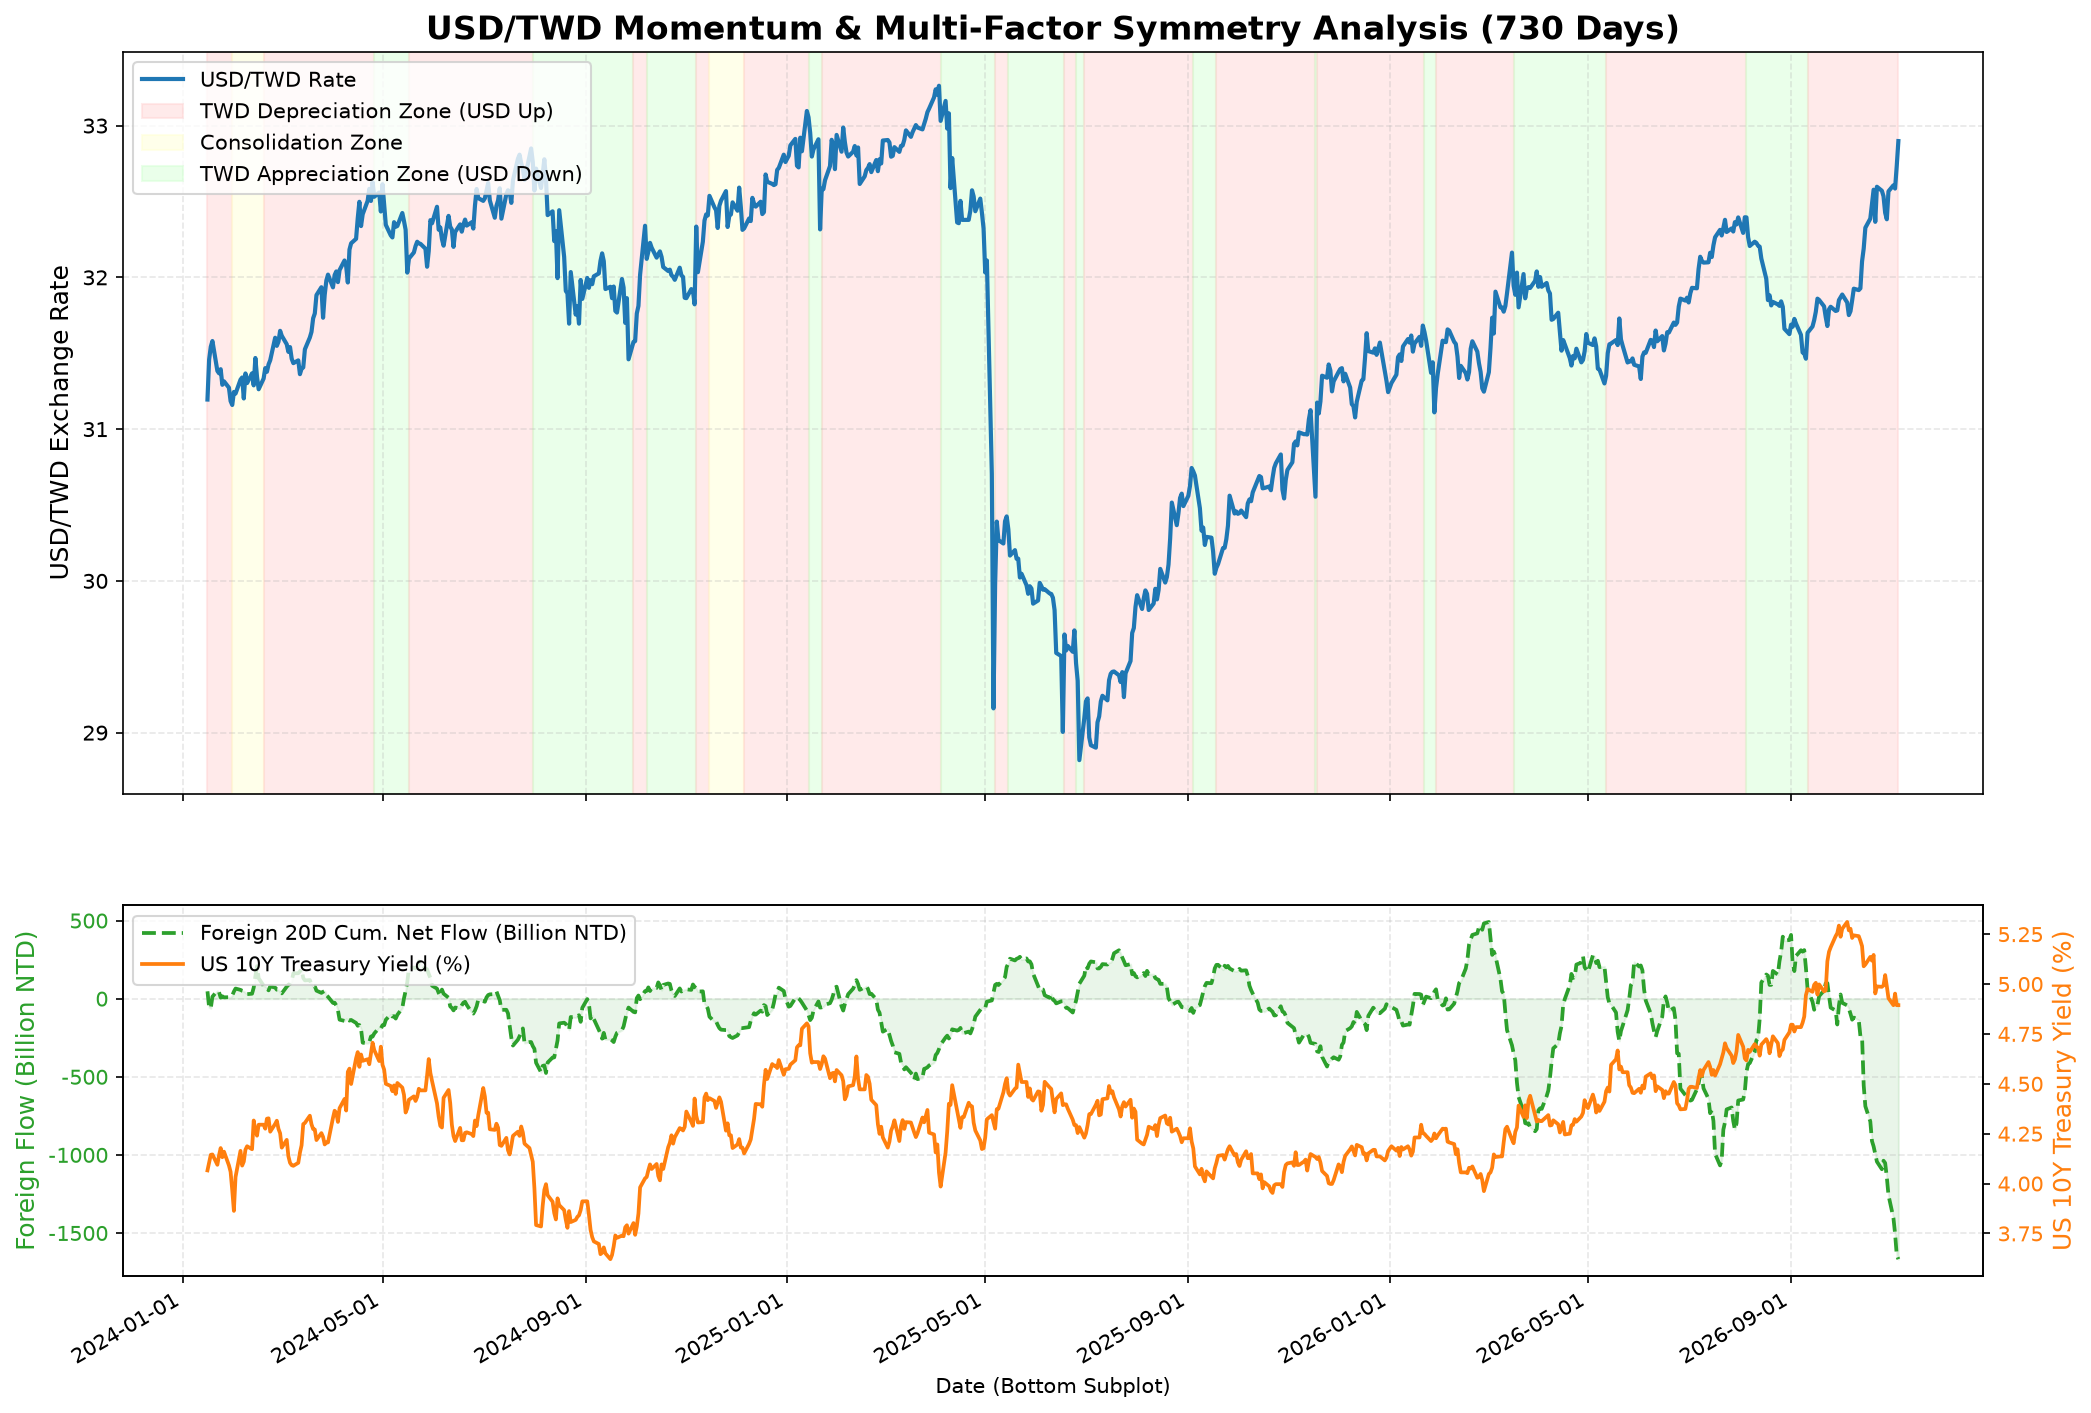
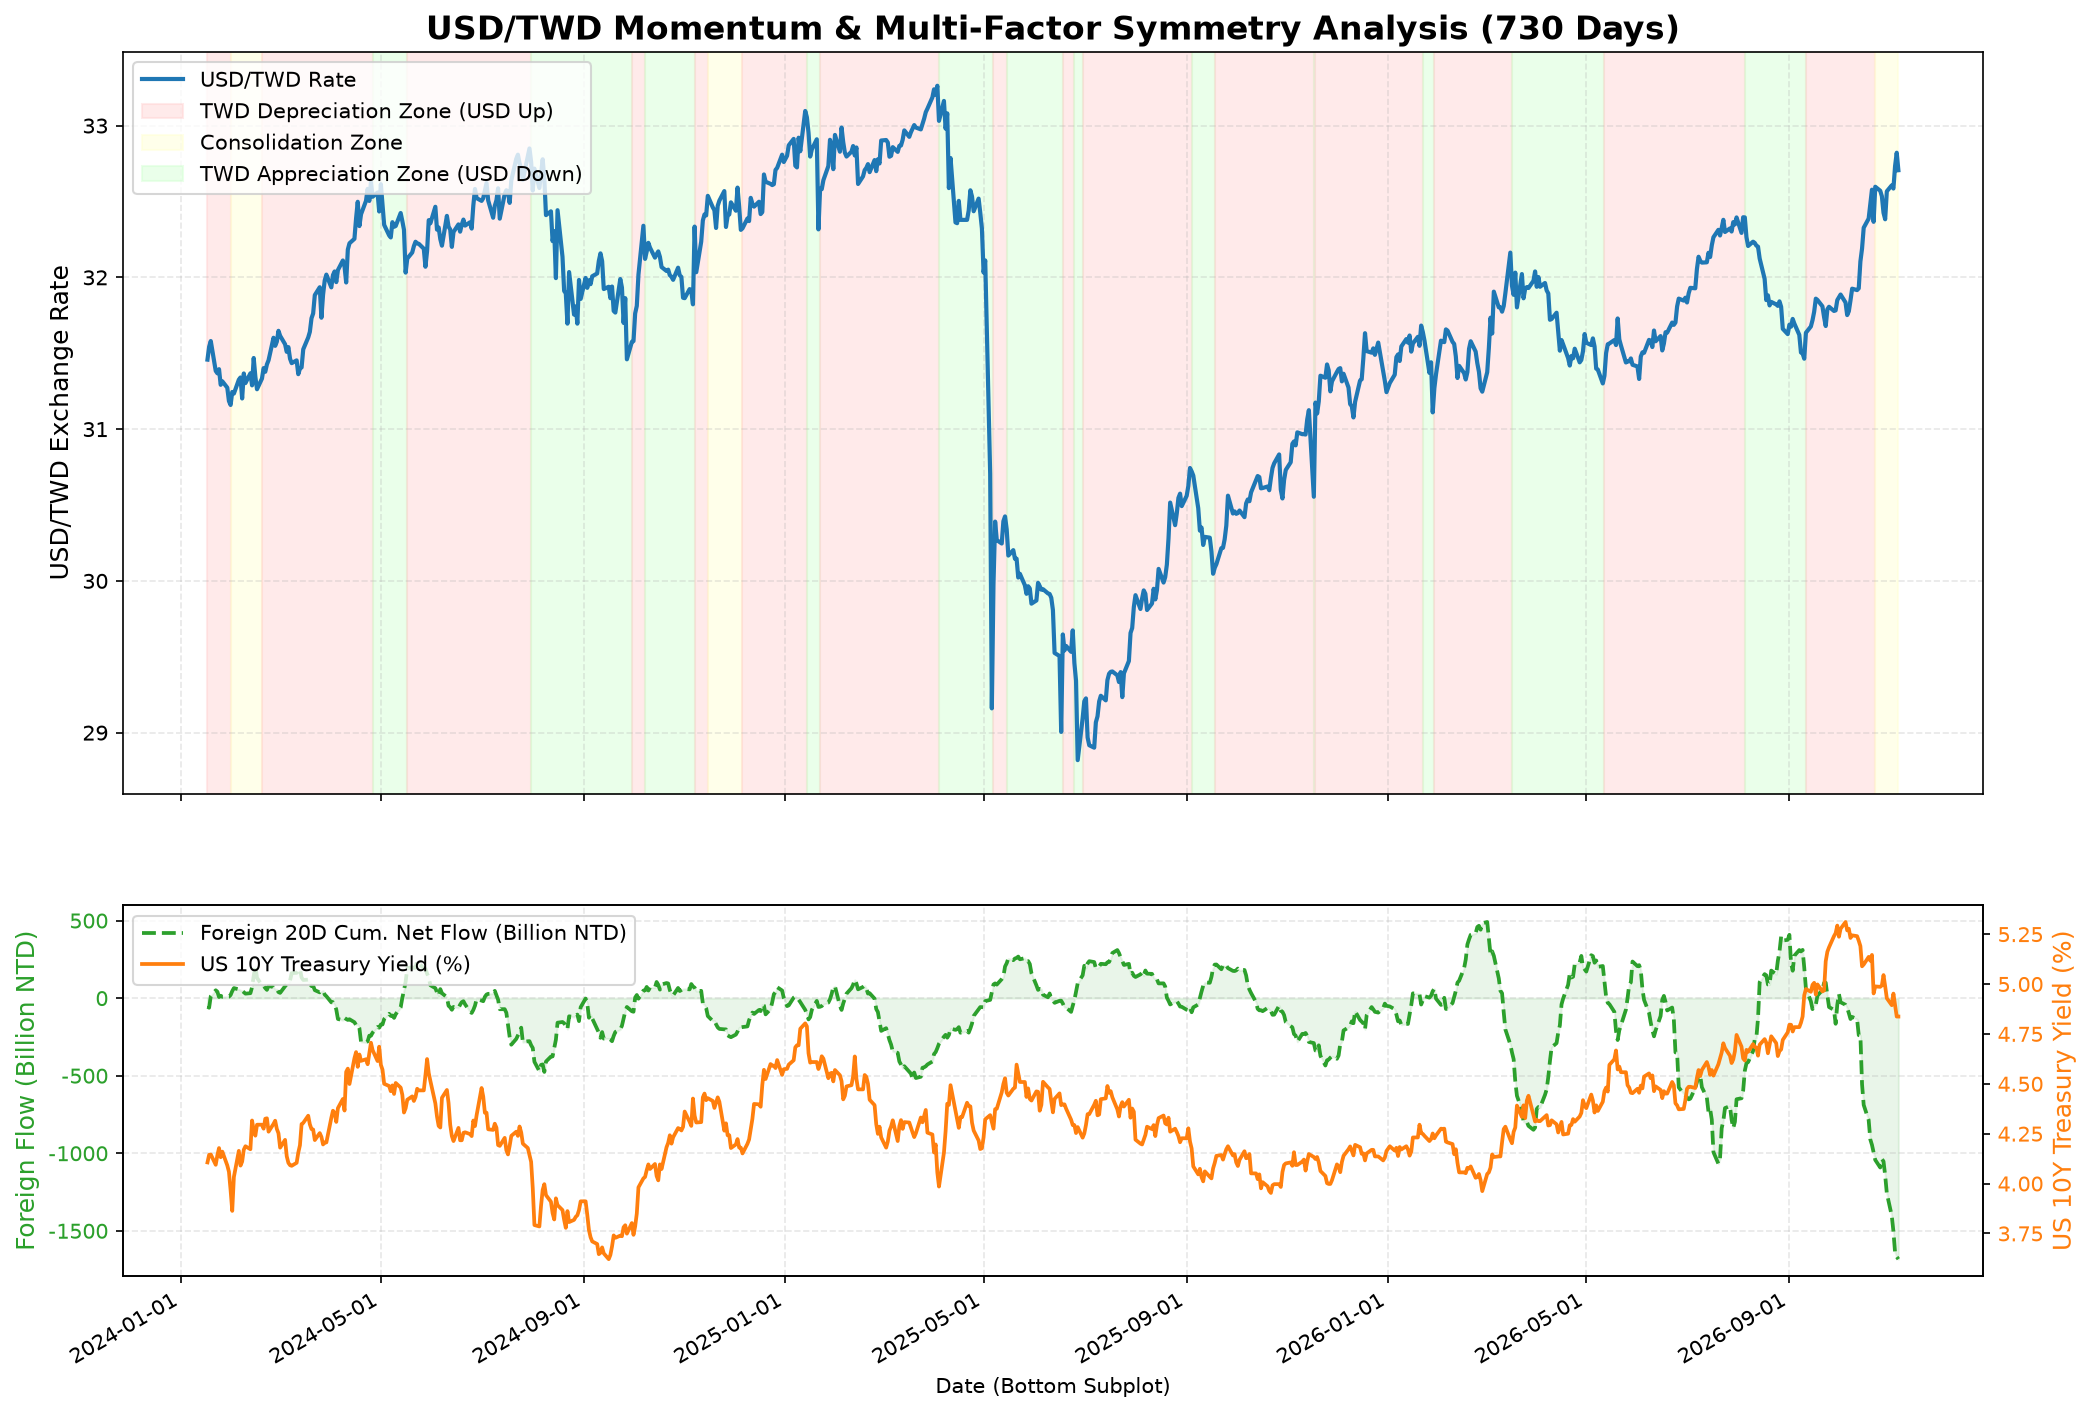
Auto-update USD/TWD momentum report (2026-11-06)

diff --git a/usdtwd.html b/usdtwd.html
@@ -57,7 +57,7 @@
                     <i class="fa-solid fa-money-bill-transfer text-amber-500"></i> USD/TWD 美元兌新台幣動能與多維度對稱分析報告
                 </h1>
                 <p class="text-sm text-gray-400 mt-1">
-                    標的：USD/TWD 匯率 ｜ 模型：雙速量價效率與波動對稱模型 ｜ 更新日期：2026-11-05
+                    標的：USD/TWD 匯率 ｜ 模型：雙速量價效率與波動對稱模型 ｜ 更新日期：2026-11-06
                 </p>
             </div>
             <div class="flex items-center gap-3">
@@ -116,17 +116,17 @@
 ════════════════════════════════════════════════════════════════════════════════
 
 【1. 跨市場與籌碼因子即時監控】
-  * 外資近 5 日累積淨買賣超: -545.66 十億元新台幣
-  * 外資近 20 日累積淨買賣超: -1667.42 十億元新台幣
-  * 美元指數 DXY: 101.57 (近5日變動: -0.31)
-  * 美元兌韓元 KRW: 1342.88 (近5日變動: +4.90)
-  * 美國 10 年期公債殖利率: 4.894% (近5日變動: -0.035%)
+  * 外資近 5 日累積淨買賣超: -524.38 十億元新台幣
+  * 外資近 20 日累積淨買賣超: -1682.76 十億元新台幣
+  * 美元指數 DXY: 101.97 (近5日變動: +0.22)
+  * 美元兌韓元 KRW: 1356.35 (近5日變動: +30.83)
+  * 美國 10 年期公債殖利率: 4.837% (近5日變動: -0.057%)
 --------------------------------------------------------------------------------
 【2. 歷史波段對稱統計 (台幣貶值波段 (美元兌台幣上漲))】
   * 歷史波段數: 37 次
-  * 平均波動幅度: 2.93% (中位數: 2.15%)
-  * 平均持續天數: 34.7 天
-  * 平均波段外資流入: -226.46 十億元
+  * 平均波動幅度: 2.91% (中位數: 2.15%)
+  * 平均持續天數: 34.4 天
+  * 平均波段外資流入: -207.86 十億元
 --------------------------------------------------------------------------------
 【2. 歷史波段對稱統計 (台幣升值波段 (美元兌台幣下跌))】
   * 歷史波段數: 29 次
@@ -135,27 +135,19 @@
   * 平均波段外資流入: +58.25 十億元
 --------------------------------------------------------------------------------
 【3. 當前 USD/TWD 波段評估與等幅對稱投影】
-  * 當前大波段型態: 上漲
-  * 波段起始日期: 2026-09-11 (起始匯率: 31.635)
-  * 波段最高點 (Peak): 32.898
-  * 波段最低點 (Trough): 31.635
-  * 當前最新匯率 (2026-11-05): 32.898
-  * 本波段累計變動: 3.99% (共 +1.263 元)
-  * 目前已持續交易日: 39 天
-  * 本波段外資累積淨流入: -1801.76 十億元
+  * 當前大波段型態: 盤整
+  * 波段起始日期: 2026-10-23 (起始匯率: 32.597)
+  * 波段最高點 (Peak): 32.821
+  * 波段最低點 (Trough): 32.383
+  * 當前最新匯率 (2026-11-06): 32.706
+  * 本波段累計變動: 0.33% (共 +0.109 元)
+  * 目前已持續交易日: 10 天
+  * 本波段外資累積淨流入: -860.91 十億元
 
   [短線動能預警 (0.6% 領先燈號)]
   * 短線波段狀態: 台幣短線轉弱 (匯率自低點反彈)
   * 短線轉折基準: 2026-10-29 (匯率基準價 32.383)
-  * 短線累計幅度: +1.59% (5 天)
-
-  &gt;&gt;&gt; 【台幣貶值波段對稱投影預估 (以波段最低點計算)】 &lt;&lt;&lt;
-  * 投影基準點 (本波段最低谷): 31.635
-  1. 溫和型貶值滿足點 (歷史平均 +2.93%): 【32.563】 (已超越)
-  2. 標準型貶值滿足點 (歷史中位數 +2.15%): 【32.315】 (已超越)
-
-  💡 操作與避險決策建議：
-     - 台幣貶值已抵達歷史標準貶值滿足區。建議出口商積極在此拋售美元，美債/美股投資人不宜在此擴大追高美元。
+  * 短線累計幅度: +1.00% (6 天)
 ════════════════════════════════════════════════════════════════════════════════
 美元台幣波段分析明細已儲存至: /data/data/com.termux/files/home/storage/downloads/usdtwd_momentum_backtest.csv
 Chart successfully saved to: /data/data/com.termux/files/home/storage/downloads/usdtwd_momentum_analysis.png
